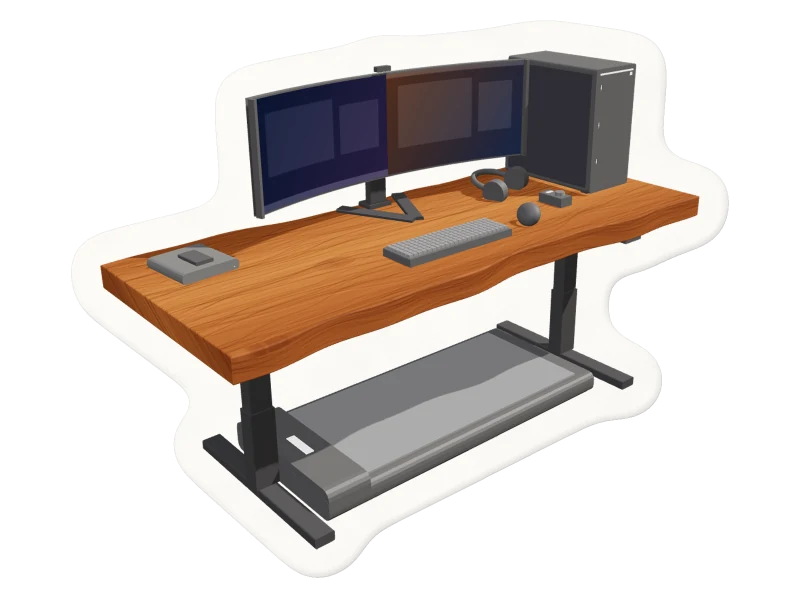
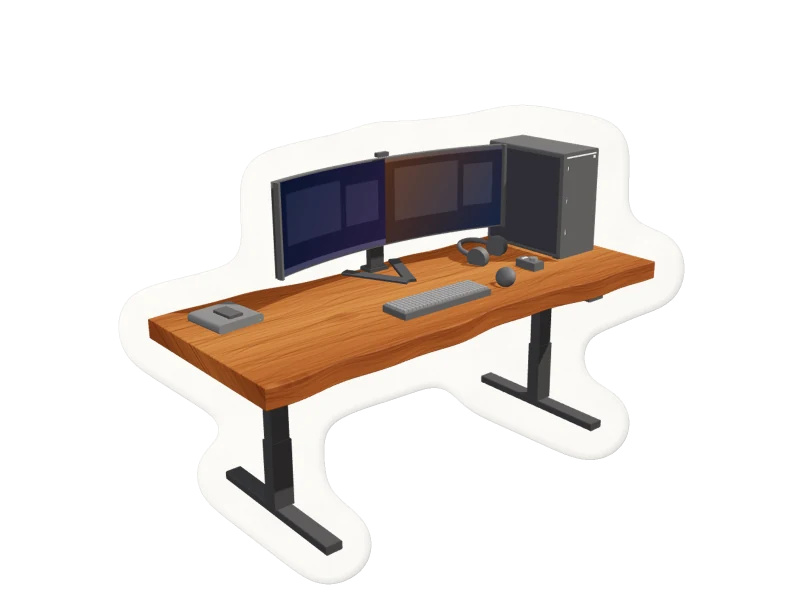
things: standing desk sticker without the walking pad, rises on hover (sprite strip)

diff --git a/frontend/js/things.js b/frontend/js/things.js
@@ -2,7 +2,8 @@
  * Things — the gear Tom actually uses.
  *
  * Data: /data/{lang}/things.json ({ intro, updated, categories[], items[] }).
- * An item: { id, name, brand, category, note, url?, image?, model?, since?, favorite?, retired?, mono? }.
+ * An item: { id, name, brand, category, note, url?, image?, anim?, animFrames?, model?, since?, favorite?, retired?, mono? }.
+ * anim: horizontal sprite strip of animFrames 4:3 frames (frame 0 = image), played on card hover.
  * mono overrides the auto monogram (two first letters).
  * Retired items (no longer used) are listed last, desaturated.
  * No image → a monogram tile, tinted by its category.
@@ -50,7 +51,8 @@
 
     function visual(item) {
         return item.image
-            ? `<span class="thing-sticker" style="--st-img: url('${esc(item.image)}')"><img src="${esc(item.image)}" alt="" loading="lazy" decoding="async"></span>`
+            ? `<span class="thing-sticker${item.anim ? ' has-anim' : ''}" style="--st-img: url('${esc(item.image)}')"><img src="${esc(item.image)}" alt="" loading="lazy" decoding="async">${item.anim
+                ? `<span class="thing-anim" aria-hidden="true" style="--anim: url('${esc(item.anim)}'); --frames: ${Number(item.animFrames) || 10}"></span>` : ''}</span>`
             : `<span class="thing-mono" aria-hidden="true">${esc(item.mono || monogram(item.name))}</span>`;
     }
 

diff --git a/frontend/css/things.css b/frontend/css/things.css
@@ -953,3 +953,19 @@ body[data-theme="fps"] .things-sheet {
   cursor: grab;
 }
 .things-sheet-visual .things-model:active { cursor: grabbing; }
+
+/* animated sticker (anim + animFrames in things.json): a horizontal strip of
+   4:3 frames, frame 0 identical to the static image; hover plays it forward,
+   leaving plays it back (e.g. the standing desk rising). */
+.thing-sticker.has-anim > img { visibility: hidden; }
+.thing-anim {
+  position: absolute;
+  inset: 0;
+  background: var(--anim) 0% 50% / calc(var(--frames) * 100%) 100% no-repeat;
+  transition: background-position 1.1s steps(var(--frames), jump-none);
+}
+.thing-hit:hover .thing-anim,
+.thing-hit:focus-visible .thing-anim { background-position: 100% 50%; }
+.things-sheet-visual .thing-sticker.has-anim > img { visibility: visible; }
+.things-sheet-visual .thing-anim { display: none; }
+@media (prefers-reduced-motion: reduce) { .thing-anim { transition: none; } }

diff --git a/frontend/things.html b/frontend/things.html
@@ -22,7 +22,7 @@
   <link rel="stylesheet" href="/css/language-switcher.css" />
 
   <!-- Things Styles -->
-  <link rel="stylesheet" href="/css/things.css?v=2026-11-09d" />
+  <link rel="stylesheet" href="/css/things.css?v=2026-11-09e" />
 
   <!-- Blip (the site's cursor agent: lives on the page, draws it as you scroll) -->
   <link rel="stylesheet" href="/css/blip-cursor.css?v=2026-10-15-perf" />
@@ -238,7 +238,7 @@
 </script>
 
 <!-- Things -->
-<script src="/js/things.js?v=2026-11-09f"></script>
+<script src="/js/things.js?v=2026-11-09g"></script>
 
 <!-- Theme JS (dynamically loaded) -->
 <script id="theme-js" src=""></script>

diff --git a/tools/stickers/anim_strip.py b/tools/stickers/anim_strip.py
@@ -1,0 +1,40 @@
+"""Animated sticker strip from rendered frames (same placement for every frame).
+
+Usage (from the repo root, with the stickers venv):
+    python tools/stickers/anim_strip.py tools/stickers/local/desk/frames /tmp/last.png
+Frames: transparent PNGs f00..fNN of the same size (here: the 3D desk rendered at
+heights 74 -> 116 cm with three.js, walking pad hidden). Writes the static sticker
+(frame 0) and a horizontal strip of half-size frames used by .thing-anim on hover.
+Item id and output names are fixed to bureau-assis-debout for now.
+"""
+import sys,glob,hashlib,numpy as np,cv2
+from PIL import Image
+sys.path.insert(0,'tools/stickers'); import make_stickers as M
+fr=sorted(glob.glob(sys.argv[1]+'/f*.png'))
+ims=[np.asarray(Image.open(f).convert('RGBA'),np.float32)/255 for f in fr]
+al=np.max([i[...,3] for i in ims],axis=0); ys,xs=np.where(al>0.04)
+y0,y1,x0,x1=ys.min(),ys.max()+1,xs.min(),xs.max()+1
+W,H,SS=M.W,M.H,M.SS
+bw=(W-2*(M.BORDER+M.MARGIN))*SS; bh=(H-2*(M.BORDER+M.MARGIN))*SS
+cw,ch=x1-x0,y1-y0; s=min(bw/cw,bh/ch)
+cov=float((ims[0][y0:y1,x0:x1,3]>0.5).sum())*s*s/(bw*bh)
+if cov>M.COVERAGE: s*=(M.COVERAGE/cov)**0.5
+nw,nh=round(cw*s),round(ch*s); ox=(W*SS-nw)//2; oy=(H*SS-nh)//2
+seed=int(hashlib.sha1(b'bureau-assis-debout').hexdigest()[:8],16)
+outs=[]
+for im in ims:
+    crop=im[y0:y1,x0:x1].copy(); crop[...,:3]*=crop[...,3:4]
+    pm=np.clip(cv2.resize(crop,(nw,nh),interpolation=cv2.INTER_AREA if s<1 else cv2.INTER_CUBIC),0,1)
+    art=np.zeros((H*SS,W*SS,4),np.float32); art[oy:oy+nh,ox:ox+nw]=pm
+    cut,inside=M.die_cut(art[...,3]); paper=M.paper_layer(cut,inside,seed)
+    a=art[...,3:4]; rgb=art[...,:3]+paper*(1-a); oa=np.maximum(cut,art[...,3])
+    p=np.dstack([rgb*oa[...,None],oa]); p=cv2.resize(p,(W,H),interpolation=cv2.INTER_AREA)
+    af=p[...,3:4]; rf=np.where(af>1e-4,p[...,:3]/np.maximum(af,1e-4),0)
+    outs.append(Image.fromarray((np.dstack([np.clip(rf,0,1),np.clip(af,0,1)])*255+.5).astype(np.uint8),'RGBA'))
+M.save_webp(outs[0],__import__('pathlib').Path('frontend/assets/things/bureau-assis-debout.webp'))
+fw,fh=W//2,H//2
+strip=Image.new('RGBA',(fw*len(outs),fh))
+for k,o in enumerate(outs): strip.paste(o.resize((fw,fh),Image.LANCZOS),(k*fw,0))
+strip.save('frontend/assets/things/bureau-assis-debout-anim.webp','WEBP',quality=82,alpha_quality=90,method=6)
+outs[-1].save(sys.argv[2])
+print(W,H,len(outs))
